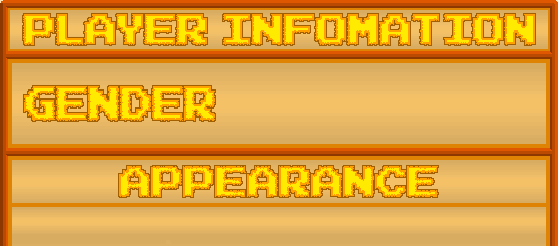
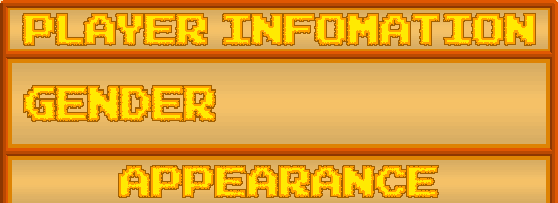
Added Male/Female buttons
Female uses Male right now since Female_Off is missing

diff --git a/src/javajesus/gui/PlayerCreationGUI.java b/src/javajesus/gui/PlayerCreationGUI.java
@@ -33,7 +33,7 @@ public class PlayerCreationGUI extends JPanel implements ActionListener {
 	private static final long serialVersionUID = 1L;
 
 	// Selectors on the left side
-	private JJButton skin, shirt, hair, pants, finish, pistol, sword, back;
+	private final JJButton skin, shirt, hair, pants, finish, pistol, sword, back, male, female;
 	
 	// default active tab
 	private int active;
@@ -95,17 +95,23 @@ public class PlayerCreationGUI extends JPanel implements ActionListener {
 		
 		// add the player information panel at the top
 		JJPanel appearance = new JJPanel(JJStrings.PLAYER_INFO_TOP);
-		appearance.setBorder(new EmptyBorder(200, 8, 0, 12));
+		appearance.setBorder(new EmptyBorder(70, 230, 70, 30));
+		appearance.add(male = new JJButton("male"));
+		male.isOn = true;
+		appearance.add(female = new JJButton("male"));
+		rightSide.add(appearance);
 		
 		// now add the row of buttons
+		JPanel buttonContainer = new JPanel();
+		buttonContainer.setBorder(new ButtonBorder());
 		JPanel buttons = new JPanel(new FlowLayout(0, 0, FlowLayout.LEFT));
 		buttons.add(skin = new JJButton("skin"));
 		skin.isOn = true;
 		buttons.add(hair = new JJButton("hair"));
 		buttons.add(shirt = new JJButton("shirt"));
 		buttons.add(pants = new JJButton("pants"));
-		appearance.add(buttons);
-		rightSide.add(appearance);
+		buttonContainer.add(buttons);
+		rightSide.add(buttonContainer);
 		
 		// form the color panel
 		rightSide.add(red = new RGBSlider((pScreen.getSkinColor() & 0x00FF0000) >> 16, Color.RED));

diff --git a/src/javajesus/gui/ButtonBorder.java b/src/javajesus/gui/ButtonBorder.java
@@ -1,0 +1,70 @@
+package javajesus.gui;
+
+import java.awt.Component;
+import java.awt.Graphics;
+import java.awt.Insets;
+import java.awt.image.BufferedImage;
+import java.io.IOException;
+
+import javax.imageio.ImageIO;
+import javax.swing.border.AbstractBorder;
+
+import javajesus.utility.JJStrings;
+
+public class ButtonBorder extends AbstractBorder {
+
+	// serialization
+	private static final long serialVersionUID = 1L;
+
+	// background image to draw
+	private BufferedImage background;
+
+	// the size of the gap
+	private final int gap = 13;
+
+	/**
+	 * Creates a custom border
+	 */
+	public ButtonBorder() {
+		try {
+			background = ImageIO.read(JJBorder.class.getResource(JJStrings.PLAYER_INFO_BORDER));
+		} catch (IOException e) {
+			e.printStackTrace();
+		}
+	}
+
+	/**
+	 * Paint a custom border
+	 */
+	@Override
+	public void paintBorder(Component c, Graphics g, int x, int y, int width, int height) {
+		g.drawImage(background, x, y, width, height, null);
+	}
+
+	/**
+	 * Set to custom gap size
+	 */
+	@Override
+	public Insets getBorderInsets(Component c) {
+		return (getBorderInsets(c, new Insets(0, gap, 0, gap)));
+	}
+
+	/**
+	 * Set to custom gap size
+	 */
+	@Override
+	public Insets getBorderInsets(Component c, Insets insets) {
+		insets.left = insets.right = gap;
+		insets.top = insets.bottom = 0;
+		return insets;
+	}
+
+	/**
+	 * Make an opaque border
+	 */
+	@Override
+	public boolean isBorderOpaque() {
+		return true;
+	}
+
+}

diff --git a/src/javajesus/utility/JJStrings.java b/src/javajesus/utility/JJStrings.java
@@ -30,6 +30,7 @@ public class JJStrings {
 	public static final String ENTER_NAME = "/VISUAL_DATA/GUI/PANELS/PLAYER_CREATION/player_name.png";
 	public static final String PLAYER_INFO_TOP = "/VISUAL_DATA/GUI/PANELS/PLAYER_CREATION/player_info_top.png";
 	public static final String PLAYER_STARTING_WEAP = "/VISUAL_DATA/GUI/PANELS/PLAYER_CREATION/starting_weapon.png";
+	public static final String PLAYER_INFO_BORDER = "/VISUAL_DATA/GUI/PANELS/PLAYER_CREATION/player_info_button_border.png";
 	public static final String RED_SLIDER = "/VISUAL_DATA/GUI/PANELS/PLAYER_CREATION/player_info_mid_higher.png";
 	public static final String GREEN_SLIDER = "/VISUAL_DATA/GUI/PANELS/PLAYER_CREATION/player_info_mid_lower.png";
 	public static final String BLUE_SLIDER = "/VISUAL_DATA/GUI/PANELS/PLAYER_CREATION/player_info_bottom.png";

diff --git a/src/javajesus/gui/PlayerGUI.java b/src/javajesus/gui/PlayerGUI.java
@@ -41,7 +41,7 @@ public class PlayerGUI extends JPanel {
 	private static SpriteSheet sheet = SpriteSheet.player_male;
 	
 	// default color set of the player
-	private final int[] color = { 0xFF343434, 0xFFFF0000, 0xFFFFCC99, 0xFF000001, 0xFF000001 };
+	private final int[] color = { 0xFF000001, 0xFFFF0000, 0xFFFFCC99, 0xFF343434, 0xFF343434 };
 	
 	/**
 	 * PlayerGUI ctor()
